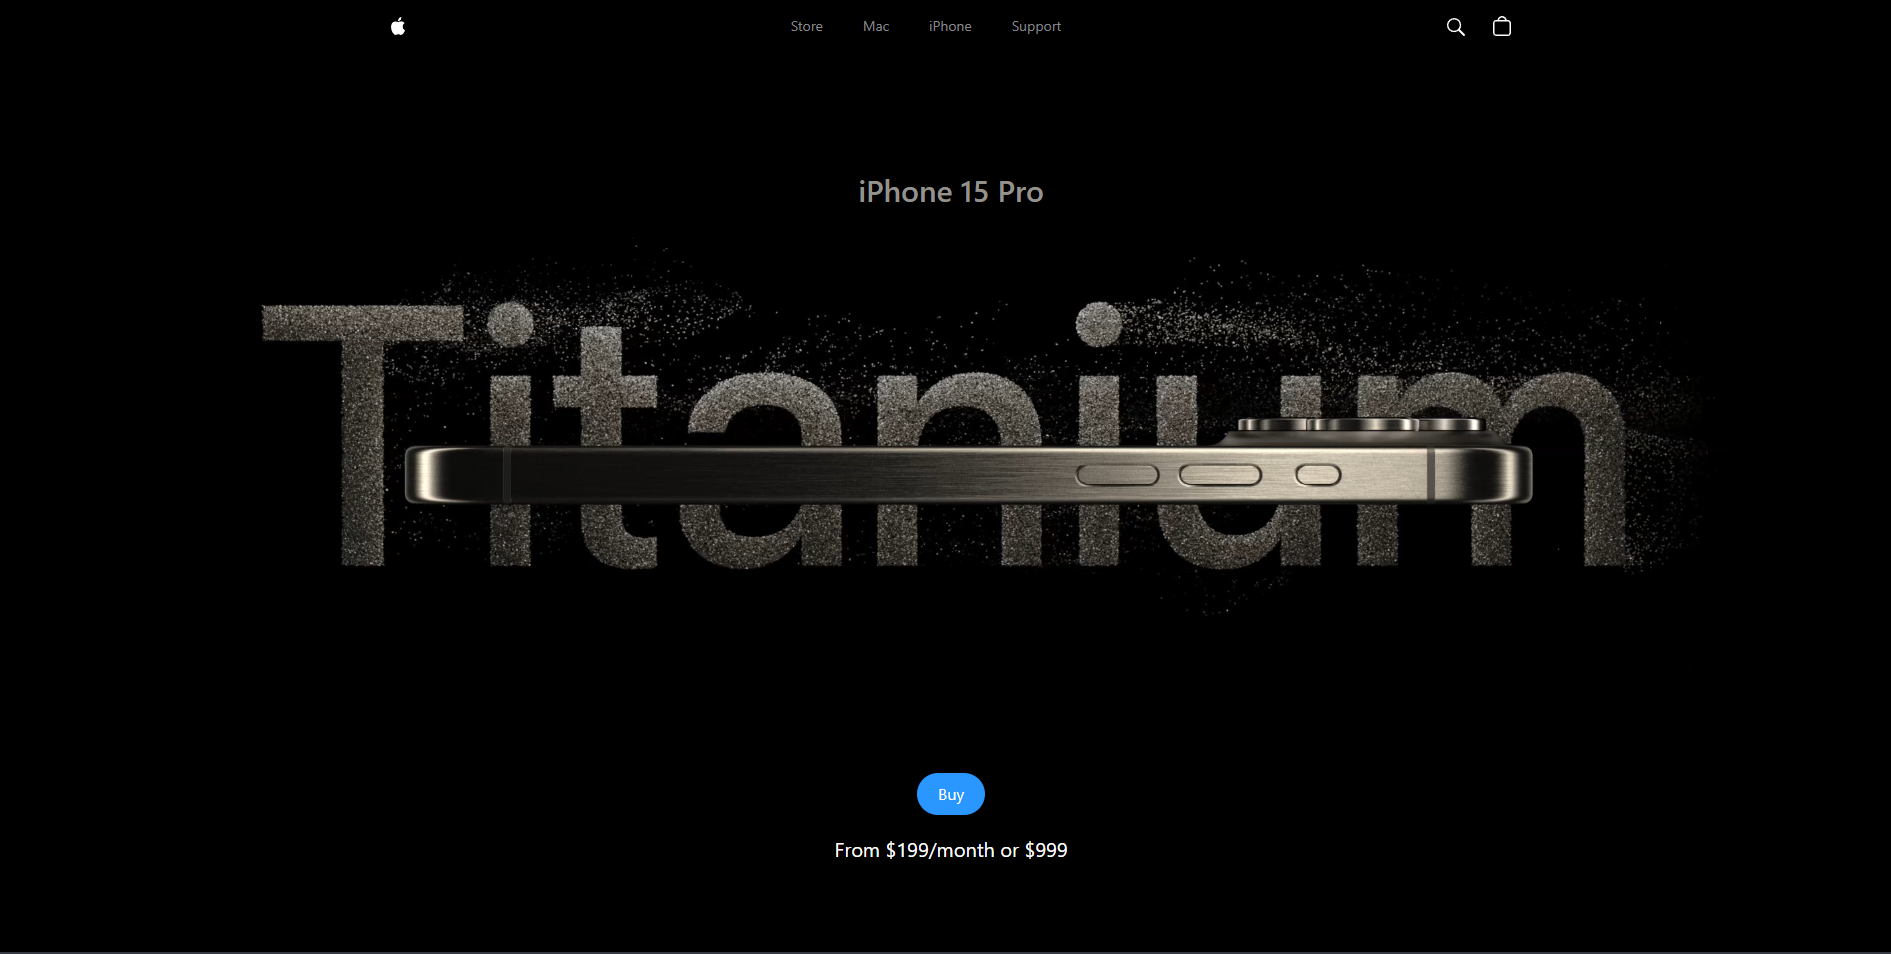
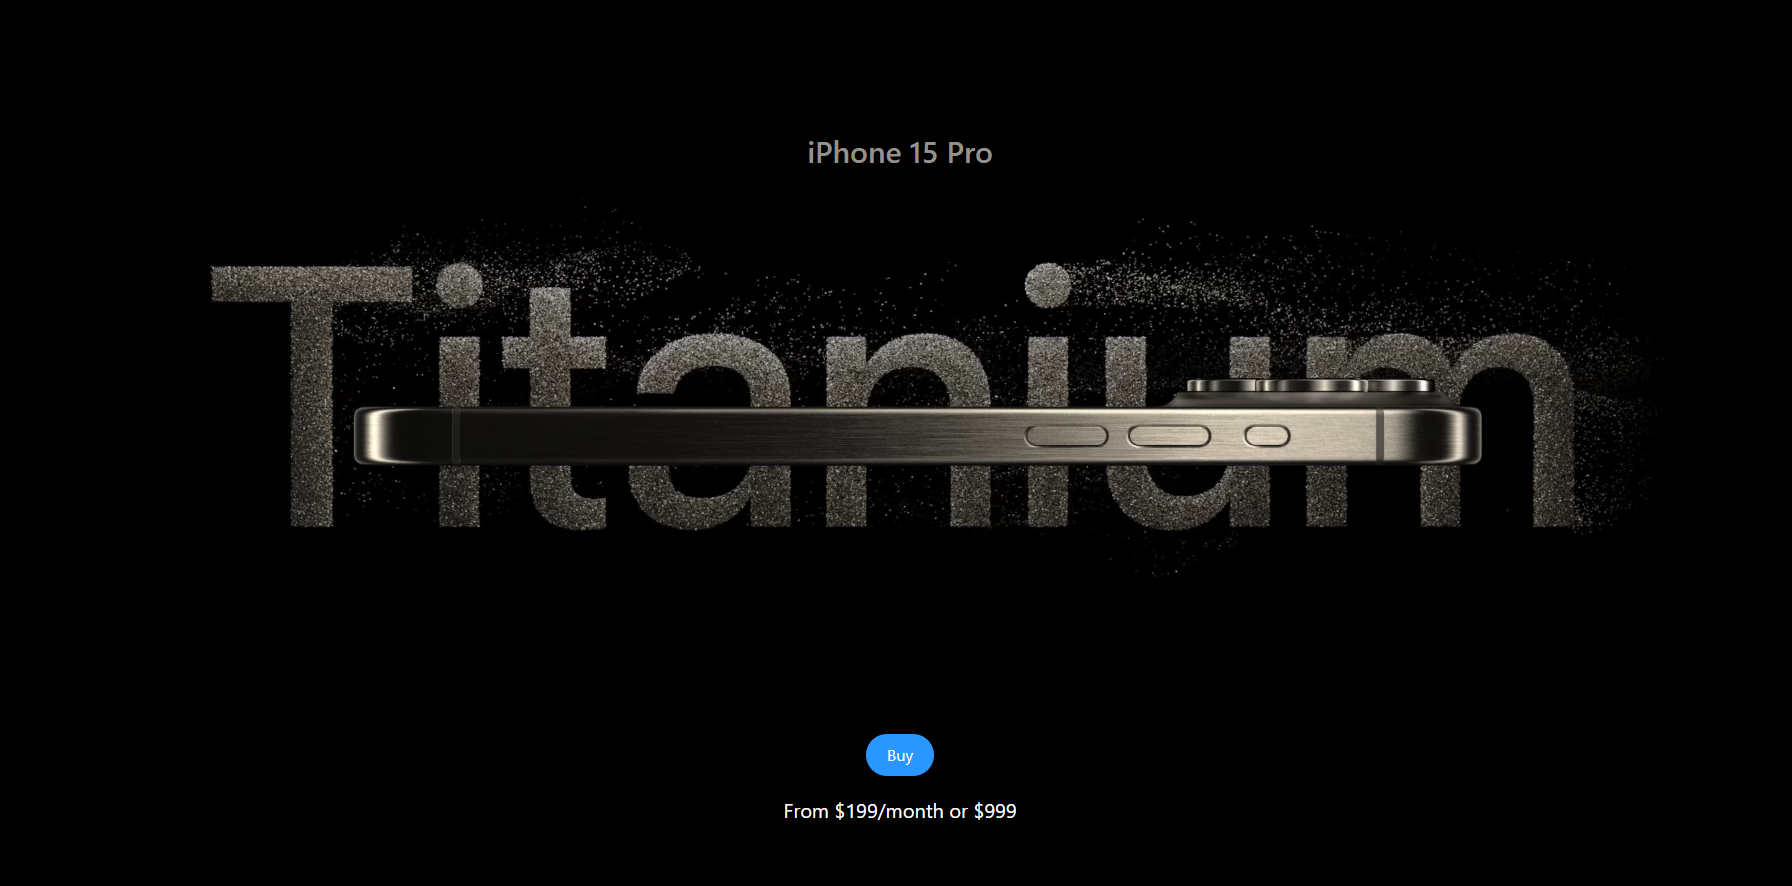
Add New projects

diff --git a/src/components/ProjectDetail/ProjectDetail.css b/src/components/ProjectDetail/ProjectDetail.css
@@ -320,6 +320,25 @@
 }
 
 /* ============================================================
+   HERO BELOW INTRO
+   ============================================================ */
+.project-hero-below-intro {
+  padding: 0 5rem;
+  padding-bottom: 6rem;
+  width: 100%;
+  background: var(--color-background);
+  position: relative;
+  z-index: 2;
+}
+
+.project-hero-below-intro__media {
+  width: 100%;
+  height: auto;
+  display: block;
+  object-fit: cover;
+}
+
+/* ============================================================
    CONTENT BODY — SIDEBAR + MAIN + SOCIAL
    ============================================================ */
 .project-content {
@@ -586,6 +605,11 @@
     min-height: auto;
   }
 
+  .project-hero-below-intro {
+    padding: 0 2rem;
+    padding-bottom: 4rem;
+  }
+
   .project-intro__text {
     margin-left: 0;
     max-width: 100%;
@@ -659,6 +683,11 @@
   .project-intro {
     padding: 4rem 1.5rem 3rem;
     min-height: auto;
+  }
+
+  .project-hero-below-intro {
+    padding: 0 1.5rem;
+    padding-bottom: 3rem;
   }
 
   .project-intro__text {

diff --git a/src/components/WhyChooseMeSection/WhyChooseMeSection.css b/src/components/WhyChooseMeSection/WhyChooseMeSection.css
@@ -142,19 +142,20 @@
     grid-template-columns: repeat(2, 1fr);
     grid-template-rows: auto;
   }
-  
+
   .card-pixel-perfect {
     grid-column: span 2;
     grid-row: span 1;
     min-height: 300px;
   }
-  
-  .card-performance, .card-animations {
+
+  .card-performance,
+  .card-animations {
     grid-column: span 1;
     grid-row: span 1;
     min-height: 250px;
   }
-  
+
   .card-fullstack {
     grid-column: span 2;
     grid-row: span 1;
@@ -166,27 +167,30 @@
   .why-choose-me-section {
     padding: 6rem 2rem;
   }
-  
+
   .bento-grid {
     grid-template-columns: 1fr;
   }
-  
-  .card-pixel-perfect, .card-performance, .card-animations, .card-fullstack {
+
+  .card-pixel-perfect,
+  .card-performance,
+  .card-animations,
+  .card-fullstack {
     grid-column: span 1;
     min-height: 250px;
   }
-  
+
   .bento-card {
     padding: 2rem;
   }
-  
+
   .bento-graphic {
     top: 1.5rem;
     right: 1.5rem;
     width: 45px;
     height: 45px;
   }
-  
+
   .bento-graphic svg {
     width: 20px;
     height: 20px;

diff --git a/src/components/ProjectDetail/ProjectDetail.js b/src/components/ProjectDetail/ProjectDetail.js
@@ -64,7 +64,7 @@ export default function ProjectDetail({ project }) {
     return () => window.removeEventListener("resize", handleResize);
   }, []);
 
-  const heroSrc = isMobile && project.thumbnailMobile ? project.thumbnailMobile : project.heroImage;
+  const heroSrc = isMobile && project.thumbnailMobile ? project.thumbnailMobile : (project.thumbnail || project.heroImage);
 
   const heroCursorRef = useRef(null);
   const nextCursorRef = useRef(null);
@@ -295,6 +295,7 @@ export default function ProjectDetail({ project }) {
               src={heroSrc}
               alt={project.title}
               className="project-hero__image"
+              style={heroSrc.endsWith('.svg') ? { objectFit: 'contain', padding: '10%', backgroundColor: '#111' } : {}}
             />
           )}
           <div className="project-hero__overlay" />
@@ -349,6 +350,23 @@ export default function ProjectDetail({ project }) {
               dangerouslySetInnerHTML={{ __html: text }}
             />
           ))}
+        </section>
+
+        {/* ============ HERO IMAGE (Moved Below Intro) ============ */}
+        <section className="project-hero-below-intro">
+          {isVideo(project.heroImage) ? (
+            <video
+              src={project.heroImage}
+              autoPlay loop muted playsInline 
+              className="project-hero-below-intro__media"
+            />
+          ) : (
+            <img
+              src={project.heroImage}
+              alt={`${project.title} Hero`}
+              className="project-hero-below-intro__media"
+            />
+          )}
         </section>
 
         {/* ============ CONTENT BODY ============ */}

diff --git a/src/components/HeroDissolve/HeroDissolve.js b/src/components/HeroDissolve/HeroDissolve.js
@@ -98,10 +98,10 @@ export default function HeroDissolve() {
       const result = /^#?([a-f\d]{2})([a-f\d]{2})([a-f\d]{2})$/i.exec(hex);
       return result
         ? {
-            r: parseInt(result[1], 16) / 255,
-            g: parseInt(result[2], 16) / 255,
-            b: parseInt(result[3], 16) / 255,
-          }
+          r: parseInt(result[1], 16) / 255,
+          g: parseInt(result[2], 16) / 255,
+          b: parseInt(result[3], 16) / 255,
+        }
         : { r: 0.89, g: 0.89, b: 0.89 };
     }
 